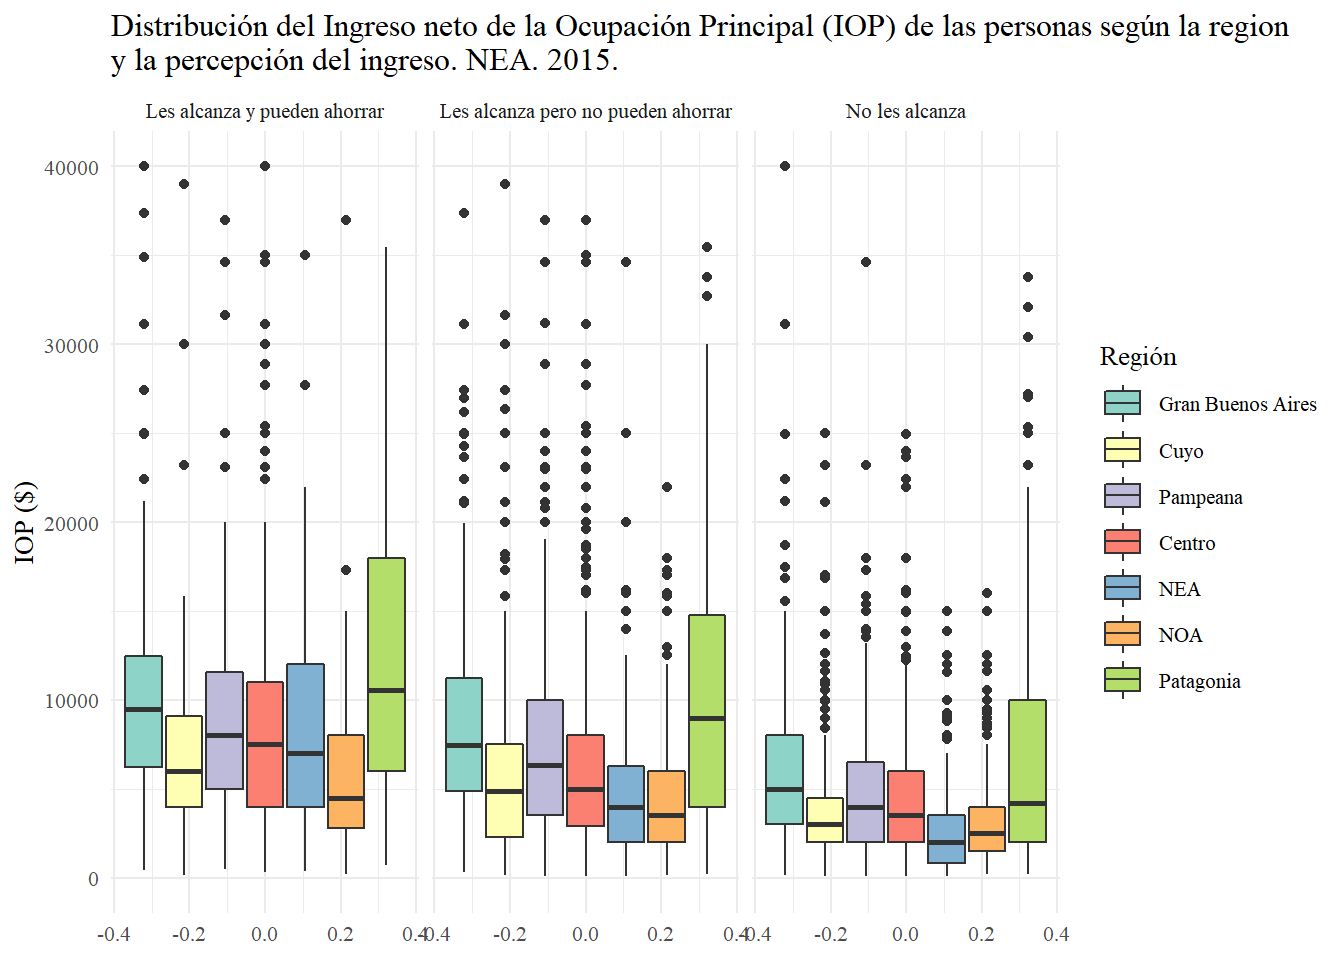
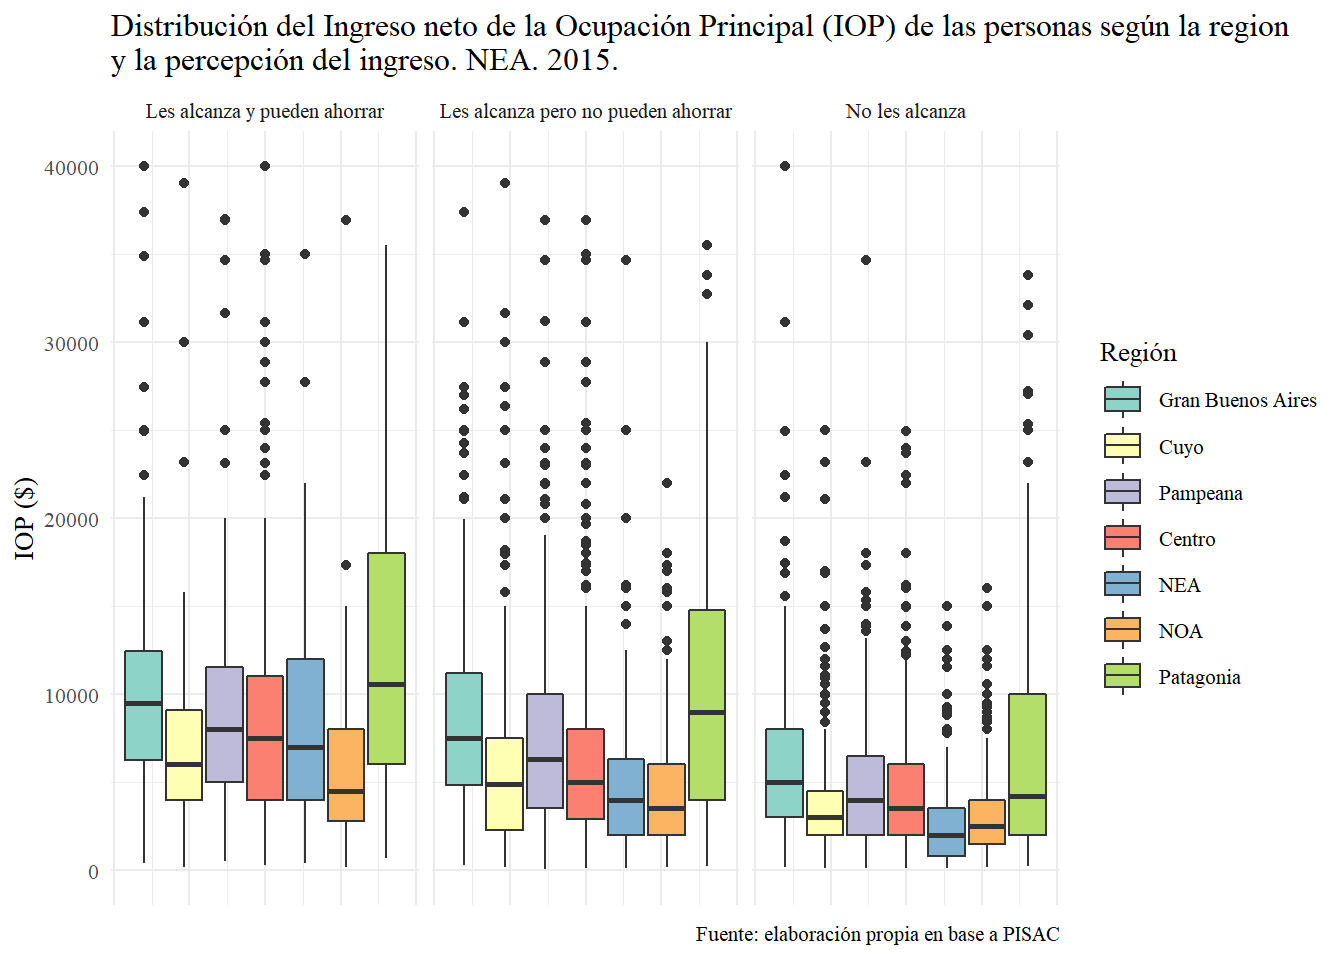
master

diff --git a/2019/03/visualizacion-de-datos/index.html b/2019/03/visualizacion-de-datos/index.html
@@ -241,12 +241,14 @@
 <p>Luego de haber visto como manipular los datos disponibles en la base de datos del PISAC, en esta etapa del proceso del análisis de datos nos centraremos en la visualización, generando graficos de calidad utilizando el paquete <strong>ggplot2</strong> que forma parte del conjunto de paquetes que integran el tidyverse. Conoceremos la estructura de la sintaxis de este paquete y los argumentos necesarios para obtener los graficos que deseamos.</p>
 <h2 id="instalacion">Instalación</h2>
 <p>Si ya tinstalamos previamente el paquete tidyverse no es necesario volver a realizar otra instalación, de lo contrario debe instalar el paquete ggplot2:</p>
+<pre class="r"><code>#Instalar paquete ggplot2
+install.packages(&quot;ggplot2&quot;)</code></pre>
 <pre class="r"><code>#y abrimos la librería
 library(ggplot2)
 #o abrimos el tidyverse
 library(tidyverse)</code></pre>
 <h2 id="la-gramatica-de-los-graficos-ggplot">La gramática de los gráficos (ggplot)</h2>
-<p>La estructura básica de la función ggplot se compone por tres argumentos necesarios: <code>data</code>, <code>aes</code> y <code>geom</code>. De esta manera, en <code>data</code> indicamos el dataframe del cual vamos a seleccionar las variables para graficar. En <code>aes</code> indicamos el mapeo estético, es decir, qué variables vamos a graficar y en qué ejes. El argumento <code>geom</code> hace referencia a las capas geométricas, que a su vez, va a depender del tipo de gráfico que deseemos generar. Ejemplo:</p>
+<p>La estructura básica de la función ggplot se compone por tres argumentos necesarios: <code>data</code> en el cuál indicamos el dataframe del cual vamos a seleccionar las variables para graficar; <code>aes</code> dónde indicamos el mapeo estético, es decir, qué variables vamos a graficar y en qué ejes y <code>geom</code> hace referencia a las capas geométricas, que a su vez, va a depender del tipo de gráfico que deseemos generar. Ejemplo:</p>
 <pre class="r"><code>ggplot(data= dataframe, aes(x= variable1, y= variable2)) + geom_point</code></pre>
 <h1 id="grafico-de-dispersion">Gráfico de dispersión</h1>
 <p>Hagamos la prueba con un gráfico de dispersión utilizando las variables Ingreso neto de la Ocupación Principal (v213bi) y la Edad. Pero, previamente vamos a crear un nuevo dataframe que va a contener solamente las variables que necesitamos en el gráfico. Para ello usaremos el paquete dplyr.</p>
@@ -495,7 +497,7 @@ ggplot(data= data.graf4, aes(y= v213bi, weight= f_calib3.x)) + geom_boxplot()</c
 <pre class="r"><code>Grafico.4 &lt;- ggplot(data= data.graf4, aes(y= v213bi, weight= f_calib3.x)) + 
   geom_boxplot(aes(fill = region.x))
 Grafico.4</code></pre>
-<p><img src="/post/2019-03-20-visualizacion-de-datos_files/figure-html/unnamed-chunk-24-1.png" width="672" /> Agregamos la paleta <em>Dark2</em> y dividimos por facetas:</p>
+<p><img src="/post/2019-03-20-visualizacion-de-datos_files/figure-html/unnamed-chunk-24-1.png" width="672" /> Agregamos la paleta <em>Set3</em> y dividimos por facetas:</p>
 <pre class="r"><code>Grafico.4 &lt;- Grafico.4 +
   scale_fill_brewer(palette = &quot;Set3&quot;,  #modificamos los colores cambiando de paleta
                     name = &quot;Región&quot;,
@@ -512,7 +514,9 @@ Grafico.4</code></pre>
                 base_size = 10) +
   labs(title = &quot;Distribución del Ingreso neto de la Ocupación Principal (IOP) de las personas según la region 
 y la percepción del ingreso. NEA. 2015.&quot;,
-       y= &quot;IOP ($)&quot;) 
+       y = &quot;IOP ($)&quot;,
+       caption = &quot;Fuente: elaboración propia en base a PISAC&quot;) +
+  theme(axis.text.x=element_blank())  #eliminamos valores del eje x
   Grafico.4</code></pre>
 <p><img src="/post/2019-03-20-visualizacion-de-datos_files/figure-html/unnamed-chunk-25-1.png" width="672" /></p>
 <h4 id="referencias">Referencias</h4>
@@ -520,6 +524,7 @@ y la percepción del ingreso. NEA. 2015.&quot;,
 <p>WICKHAM H., GROLEMUND G. “R for Data Science” (2017). Recuperado de: <a href="https://r4ds.had.co.nz/" class="uri">https://r4ds.had.co.nz/</a></p>
 <p>WEKSLER G., KOZLOWSKI D., SHOKIDA N., “Curso de R para procesamiento de datos de la Encuesta Permanente de Hogares” (2018). Recuperado de: <a href="https://diegokoz.github.io/Curso_R_EPH_clases/" class="uri">https://diegokoz.github.io/Curso_R_EPH_clases/</a></p>
 <p>MANGINI F., “6 TIPS TO MAKE YOUR VISUALIZATIONS LOOK PROFESSIONAL [UPDATED]” (2018). Recuperado de: <a href="http://www.thinkingondata.com/6-tips-to-make-your-visualizations-look-professional/" class="uri">http://www.thinkingondata.com/6-tips-to-make-your-visualizations-look-professional/</a></p>
+<p>THE R GRAPH GALLERY. “GENERAL GGPLOT2 TIPS”. Recuperado de: <a href="https://www.r-graph-gallery.com/portfolio/ggplot2-package/" class="uri">https://www.r-graph-gallery.com/portfolio/ggplot2-package/</a></p>
 </div>
 
               
